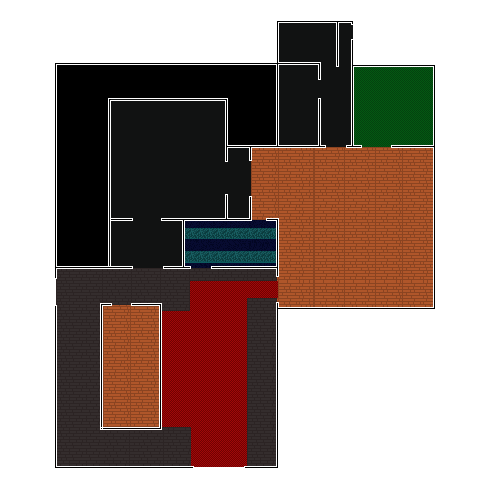
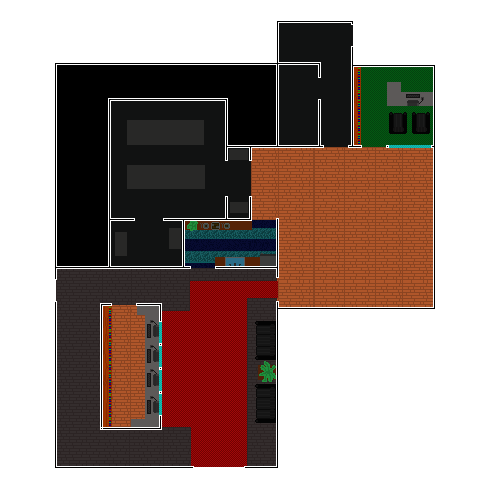
Front room boundaries completed

diff --git a/src/copsandrobbers/Bank.java b/src/copsandrobbers/Bank.java
@@ -24,26 +24,61 @@ public class Bank {
     public Bank() {
         this.image
                 = ResourceTools.loadImageFromResource("images/Bank_Heist_Map.png");
-        this.x = -300; //-400; //starting x = -400
-        this.y = -1500;//-2100; // starting y = -2100
+        this.x = -500; //-400; //starting x = -400
+        this.y = -1100;//-2100; // starting y = -2100
         boundries = new ArrayList<>();
         boundries.add(new Rectangle(x, y, image.getWidth(null) * 6, image.getHeight(null) * 6));
-        boundries.add(new Rectangle(x + 600, y + 1817, 18, 765)); // x must equal 200 and y must equal 15
-        boundries.add(new Rectangle(x + 325, y + 1595, 473, 18)); // x must equal 25 and y must equal 95
-        boundries.add(new Rectangle(x + 325, y + 1595, 18, 80)); // ||
-        boundries.add(new Rectangle(x + 600, y + 1817, 120, 18));
-
+        boundries.add(new Rectangle(x + 600, y + 1817, 18, 765));
+        boundries.add(new Rectangle(x + 325, y + 1595, 820, 18));
+        boundries.add(new Rectangle(x + 1290, y + 1543, 385, 70));
+        boundries.add(new Rectangle(x + 1656, y + 1308, 18, 360));
+        boundries.add(new Rectangle(x + 1092, y + 1308, 18, 305));
+        boundries.add(new Rectangle(x + 325, y + 1595, 18, 80));
+        boundries.add(new Rectangle(x + 600, y + 1817, 72, 18));
+        boundries.add(new Rectangle(x + 815, y + 1817, 155, 18));
+        boundries.add(new Rectangle(x + 953, y + 1817, 18, 115));
+        boundries.add(new Rectangle(x + 953, y + 1817, 18, 115));
+        boundries.add(new Rectangle(x + 953, y + 2057, 18, 18));
+        boundries.add(new Rectangle(x + 953, y + 2346, 18, 18));
+        boundries.add(new Rectangle(x + 953, y + 2490, 18, 90));
+        boundries.add(new Rectangle(x + 600, y + 2561, 370, 18));
+        boundries.add(new Rectangle(x + 324, y + 1805, 18, 1008));
+        boundries.add(new Rectangle(x + 324, y + 2795, 840, 18));
+        boundries.add(new Rectangle(x + 1464, y + 2795, 210, 18));
+        boundries.add(new Rectangle(x + 1656, y + 1805, 18, 1008));
+        boundries.add(new Rectangle(x + 1530, y + 1925, 125, 235));
+        boundries.add(new Rectangle(x + 1530, y + 2305, 125, 235));
+        boundries.add(new Rectangle(x + 1550, y + 2165, 125, 135));
     }
 
     public void draw(Graphics graphics) {
         graphics.drawImage(image, x, y, image.getWidth(null) * 6, image.getHeight(null) * 6, null);
         //boundries test
         graphics.setColor(Color.red);
-        graphics.drawRect(x + 600, y + 1817, 18, 765);
         graphics.drawRect(x, y, image.getWidth(null) * 6, image.getHeight(null) * 6);
-        graphics.drawRect(x + 325, y + 1595, 473, 18);
+        graphics.drawRect(x + 600, y + 1817, 18, 762);
+        graphics.drawRect(x + 325, y + 1595, 820, 18);
+        graphics.drawRect(x + 1290, y + 1543, 385, 70);
+        graphics.drawRect(x + 1560, y + 1525, 95, 70);
+        graphics.drawRect(x + 1656, y + 1308, 18, 360);
+        graphics.drawRect(x + 1092, y + 1308, 18, 305);
+        graphics.drawRect(x + 978, y + 1308, 535, 18);
         graphics.drawRect(x + 325, y + 1595, 18, 80);
-        graphics.drawRect(x + 600, y + 1817, 75, 18);
+        graphics.drawRect(x + 600, y + 1817, 72, 18);
+        graphics.drawRect(x + 815, y + 1817, 155, 18);
+        graphics.drawRect(x + 953, y + 1817, 18, 115);
+        graphics.drawRect(x + 953, y + 2057, 18, 18);
+        graphics.drawRect(x + 953, y + 2202, 18, 18);
+        graphics.drawRect(x + 953, y + 2346, 18, 18);
+        graphics.drawRect(x + 953, y + 2490, 18, 90);
+        graphics.drawRect(x + 600, y + 2561, 370, 18);
+        graphics.drawRect(x + 324, y + 1805, 18, 1008);
+        graphics.drawRect(x + 324, y + 2795, 840, 18);
+        graphics.drawRect(x + 1464, y + 2795, 210, 18);
+        graphics.drawRect(x + 1656, y + 1805, 18, 1008);
+        graphics.drawRect(x + 1530, y + 1925, 125, 235);
+        graphics.drawRect(x + 1530, y + 2305, 125, 235);
+        graphics.drawRect(x + 1550, y + 2165, 125, 135);
     }
     private Image image;
     private int x;
